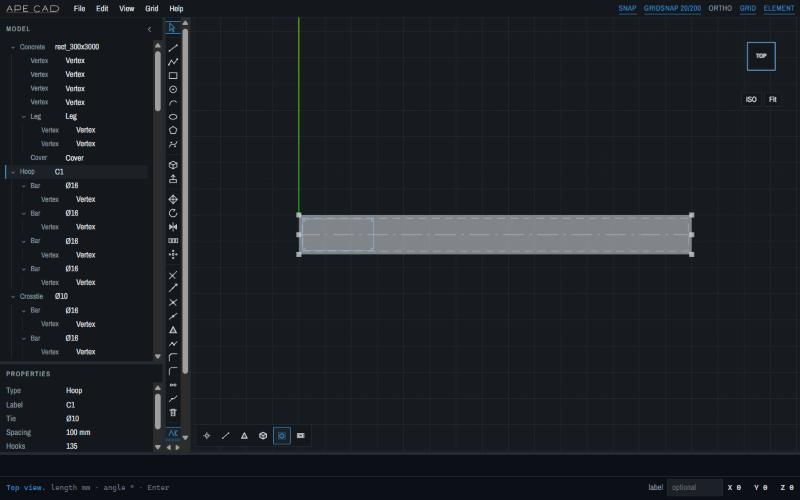
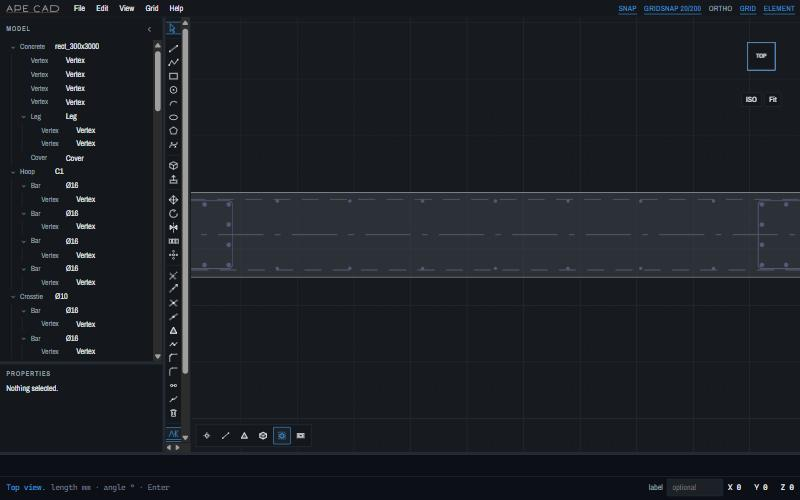
Read the section colours from the canvas roles so sections stay legible in dark.
On the carbon canvas, bars and hoops used SECTION_STYLE's fixed #1f2933 and
nearly vanished (main had the same defect behind its opt-in g2 background;
D1 made carbon the dark theme's default). SECTION_STYLE now reads
--fill-concrete, --ink-concrete, --ink-section-guide and --ink-rebar through
INK: light keeps #32's values, carbon uses rebar #8c9cf0 (ADR 0031 §1.4) and
a #3a4048 concrete fill. Screenshots re-taken in both themes.

diff --git a/src/apeCAD/scratchpad/static/js/section.js b/src/apeCAD/scratchpad/static/js/section.js
@@ -1,6 +1,6 @@
 // Section-mode entities in the 3-D view (ADR 0024): the concrete face, cover ring, leg axis,
 // hoops, crossties and bars, flat on their own z. All their colours live in SECTION_STYLE,
-// the one table the APE drawing-style slice (ADR 0031) swaps later.
+// the one table the APE drawing-style slice (ADR 0031, stage D3) swaps later.
 import * as THREE from "three";
 import { S } from "./state.js";
 import { pointById } from "./brep.js";
@@ -10,14 +10,17 @@ import { formatMm } from "./prefs.js";
 import { dashSegments, roundedRing } from "./section-geom.js";
 import { INK } from "./theme.js";
 
-// Neutral ink until ADR 0031 is approved. Dash patterns are in mm on the section plane.
+// Colours come from the active canvas (css/app.css --fill-concrete, --ink-concrete,
+// --ink-section-guide, --ink-rebar via INK), so the section reads on paper and on carbon.
+// The light values are #32's neutral ink; D3 sets the APE drawing ink. Dash patterns are in
+// mm on the section plane.
 export const SECTION_STYLE = {
-  concrete: { fill: 0xc8ccd1, opacity: 0.6, edge: 0x1f2933 },
-  cover: { color: 0x7b8794, dash: [60, 40] },
-  leg: { color: 0x7b8794, dash: [160, 40, 20, 40] },
-  hoop: { color: 0x1f2933 },
-  crosstie: { color: 0x1f2933 },
-  bar: { color: 0x1f2933 },
+  concrete: { get fill() { return INK.concreteFill; }, opacity: 0.6, get edge() { return INK.concreteEdge; } },
+  cover: { get color() { return INK.sectionGuide; }, dash: [60, 40] },
+  leg: { get color() { return INK.sectionGuide; }, dash: [160, 40, 20, 40] },
+  hoop: { get color() { return INK.rebar; } },
+  crosstie: { get color() { return INK.rebar; } },
+  bar: { get color() { return INK.rebar; } },
 };
 
 export const SECTION_KINDS = ["ConcreteFace", "Bar", "Hoop", "Crosstie", "WallLeg", "CoverGuide"];

diff --git a/src/apeCAD/scratchpad/static/css/app.css b/src/apeCAD/scratchpad/static/css/app.css
@@ -68,6 +68,10 @@
   --hover: #3d8fce;
   --snap: #c64a1a;
   --ghost: #2f74ad;
+  --fill-concrete: #c8ccd1;
+  --ink-concrete: #1f2933;
+  --ink-section-guide: #7b8794;
+  --ink-rebar: #1f2933;
   --light-sky: #f4f7fb;
   --light-ground: #6e757c;
   --light-ground-flat: #c5cad0;
@@ -101,6 +105,10 @@
     --hover: #6aa8e8;
     --snap: #e2703a;
     --ghost: #6cb3ff;
+    --fill-concrete: #3a4048;
+    --ink-concrete: #c9d1da;
+    --ink-section-guide: #97a1ad;
+    --ink-rebar: #8c9cf0;
     --light-sky: #c8cdd3;
     --light-ground: #0a0a0a;
     --light-ground-flat: #2a2a2a;
@@ -132,6 +140,10 @@
   --hover: #6aa8e8;
   --snap: #e2703a;
   --ghost: #6cb3ff;
+  --fill-concrete: #3a4048;
+  --ink-concrete: #c9d1da;
+  --ink-section-guide: #97a1ad;
+  --ink-rebar: #8c9cf0;
   --light-sky: #c8cdd3;
   --light-ground: #0a0a0a;
   --light-ground-flat: #2a2a2a;
@@ -146,6 +158,10 @@
   --hover: #3d8fce;
   --snap: #c64a1a;
   --ghost: #2f74ad;
+  --fill-concrete: #c8ccd1;
+  --ink-concrete: #1f2933;
+  --ink-section-guide: #7b8794;
+  --ink-rebar: #1f2933;
   --light-sky: #f4f7fb;
   --light-ground: #6e757c;
   --light-ground-flat: #c5cad0;
@@ -162,6 +178,10 @@
   --hover: #6aa8e8;
   --snap: #e2703a;
   --ghost: #6cb3ff;
+  --fill-concrete: #3a4048;
+  --ink-concrete: #c9d1da;
+  --ink-section-guide: #97a1ad;
+  --ink-rebar: #8c9cf0;
   --light-sky: #c8cdd3;
   --light-ground: #0a0a0a;
   --light-ground-flat: #2a2a2a;

diff --git a/src/apeCAD/scratchpad/static/js/theme.js b/src/apeCAD/scratchpad/static/js/theme.js
@@ -16,6 +16,10 @@ export const INK = {
   hover: 0,
   snap: 0,
   ghost: 0,
+  concreteFill: 0,
+  concreteEdge: 0,
+  sectionGuide: 0,
+  rebar: 0,
   lightSky: 0,
   lightGround: 0,
   lightGroundFlat: 0,
@@ -31,6 +35,10 @@ const ROLE_VARS = {
   hover: "--hover",
   snap: "--snap",
   ghost: "--ghost",
+  concreteFill: "--fill-concrete",
+  concreteEdge: "--ink-concrete",
+  sectionGuide: "--ink-section-guide",
+  rebar: "--ink-rebar",
   lightSky: "--light-sky",
   lightGround: "--light-ground",
   lightGroundFlat: "--light-ground-flat",

diff --git a/src/apeCAD/scratchpad/static/index.html b/src/apeCAD/scratchpad/static/index.html
@@ -322,6 +322,6 @@
       <div>F2 rename · right-click the model tree for duplicate / hide / delete</div>
     </div>
   </dialog>
-  <script type="module" src="/app.js?v=67"></script>
+  <script type="module" src="/app.js?v=68"></script>
 </body>
 </html>

diff --git a/tests/test_ui_tokens.py b/tests/test_ui_tokens.py
@@ -22,8 +22,8 @@ _RETIRED = {
     "0xd55e00", "#d55e00", "0x6cb3ff", "0x7dce7d", "0xff6b6b", "0x111111", "#2c333c",
     "#e8edf2", "0xe4e9ee", "0x1c1c1c", "0xa3a6aa",
 }
-# Section drawing inks stay in section.js until stage D3; lights are physics, not palette.
-_ALLOWED_HEX = {"section.js", "viewport.js", "prefs.js"}
+# Key light and contact shadow are physics, not palette; prefs.js migrates a legacy value.
+_ALLOWED_HEX = {"viewport.js", "prefs.js"}
 
 
 @pytest.fixture
@@ -97,6 +97,11 @@ def test_canvas_presets_define_the_canvas_roles() -> None:
         assert f'#stage[data-canvas="{preset}"]' in css
     carbon = _block(css, '#stage[data-canvas="carbon"] {')
     assert {"--canvas", "--grid-major", "--grid-minor", "--ink-edge", "--ghost"} <= set(carbon)
+    section_roles = {"--fill-concrete", "--ink-concrete", "--ink-section-guide", "--ink-rebar"}
+    assert section_roles <= set(carbon)
+    assert carbon["--ink-rebar"].strip() == "#8c9cf0"  # ADR 0031 §1.4: legible on carbon
+    paper = _block(css, '#stage[data-canvas="paper"], #stage[data-canvas="mist"] {')
+    assert section_roles <= set(paper)
 
 
 def test_client_keeps_no_retired_colour() -> None:

diff --git a/AProjects/specs/scratchpad.md b/AProjects/specs/scratchpad.md
@@ -27,8 +27,9 @@ Chrome follows the APE design system ([ADR 0031](../adrs/0031-ape-design-system.
 values in [`ape-design.md`](ape-design.md) §1). Every colour is a role in `static/css/app.css`:
 chrome roles per theme (light paper, dark carbon) and canvas roles on `#stage` per canvas
 preset (paper, mist, carbon). `js/theme.js` sets `data-theme` / `data-canvas` and reads the
-canvas roles into `INK` for three.js; no other module writes a colour, except the section
-drawing table in `js/section.js` until stage D3. The UI face is Archivo Narrow, served from
+canvas roles into `INK` for three.js; no other module writes a colour. The section table in
+`js/section.js` reads `--fill-concrete`, `--ink-concrete`, `--ink-section-guide` and
+`--ink-rebar`, so a section stays legible on carbon; stage D3 sets their APE drawing values. The UI face is Archivo Narrow, served from
 `static/fonts/` with its OFL licence. The server serves `/css/<name>.css` and
 `/fonts/<name>.woff2` beside `/js/<name>.js`.
 
